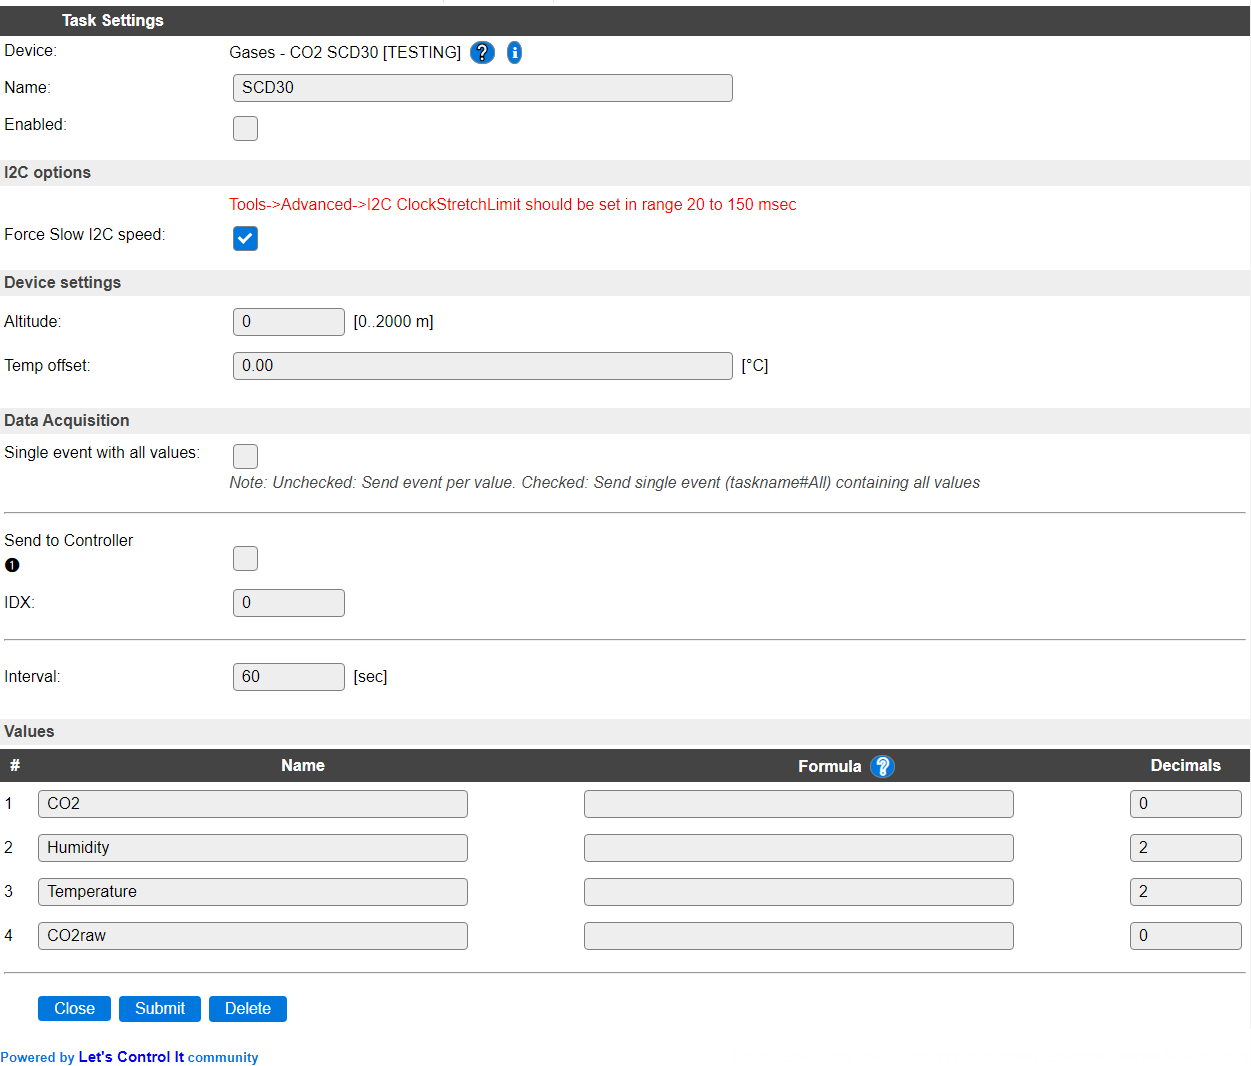
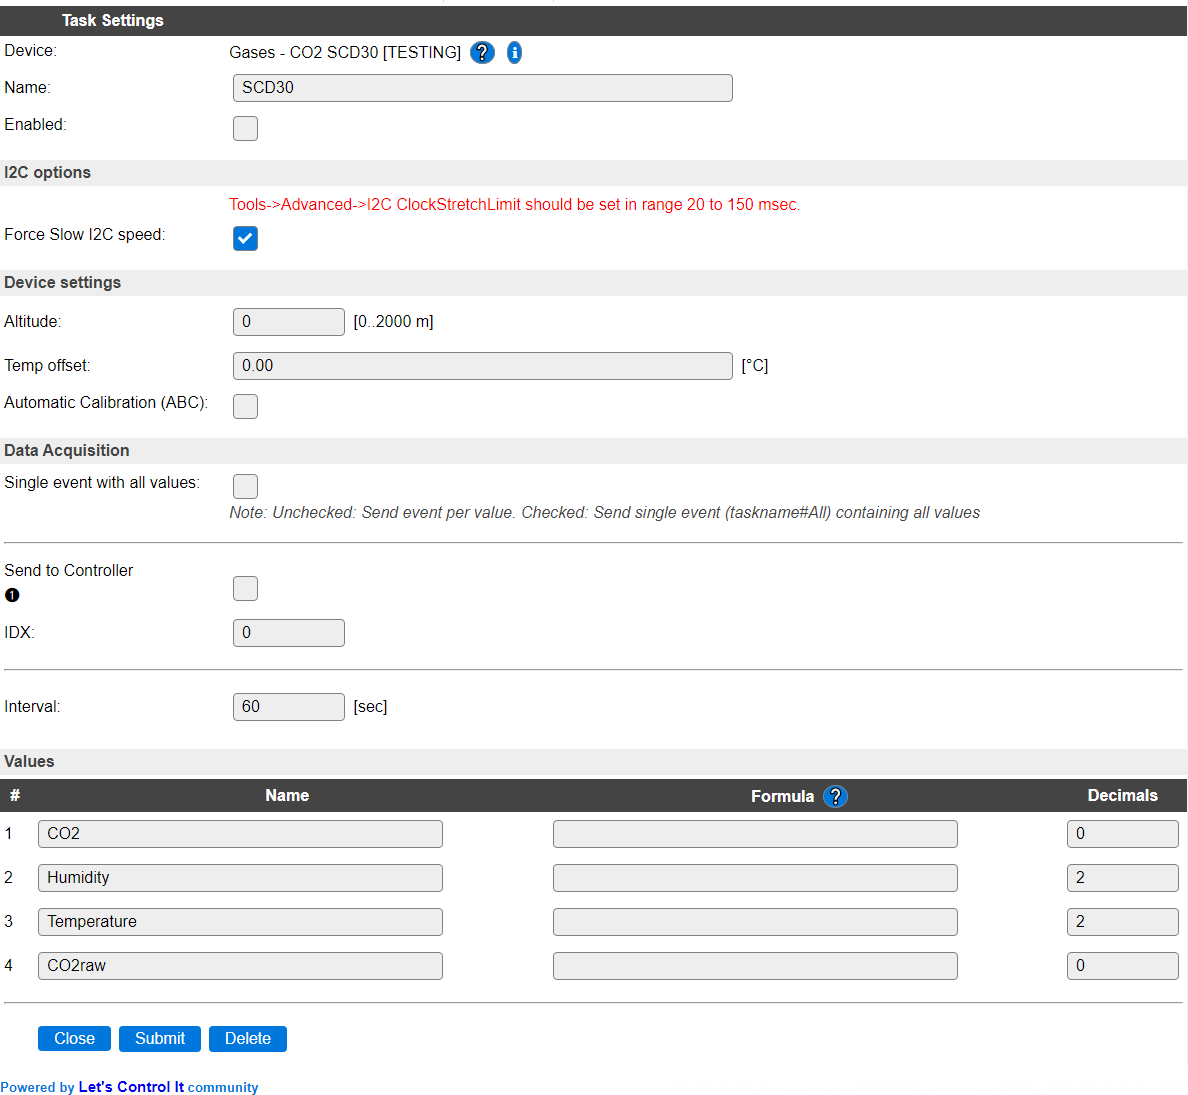
[P117] Update documentation

diff --git a/docs/source/Plugin/P117.rst b/docs/source/Plugin/P117.rst
@@ -24,7 +24,7 @@ Used libraries: |P117_usedlibraries|
 Description
 -----------
 
-The SCD30 is a CO2 sensor unit that also provides Humidity and Temperature measurement, supports auto-calibration, and has temperature and altitude compensation settings.
+The SCD30 is a CO2 sensor unit that also provides Humidity and Temperature measurement, supports auto-calibration, allows forced recalibration, and has temperature and altitude compensation settings.
 
 Configuration
 -------------
@@ -53,6 +53,8 @@ Device Settings
 
 * **Temp offset** Offset for temperature correction. Can be set to compensate any self-heating of the device, by comparing the temperature measurement with another calibrated temperature measured close to the device. The difference can be set here, and is (also) stored in the sensor (but re-written every time ESPEasy initializes the sensor).
 
+* **Automatic Calibration (ABC)**: When enabled, the automatic calibration will be activated when the plugin is started.
+
 The Data Acquisition, Send to Controller and Interval settings are standard available configuration items. Send to Controller only when one or more Controllers are configured.
 
 **Interval** By default, Interval will be set to 60 sec. The data will be measured and optionally sent to any configured controllers using this interval.
@@ -76,6 +78,9 @@ Change log
 
 .. versionchanged:: 2.0
   ...
+
+  |added|
+  2022-02-26 Added commands and setting for automatic calibration and forced recalibration.
 
   |added|
   2021-11-20 Initial release version.
